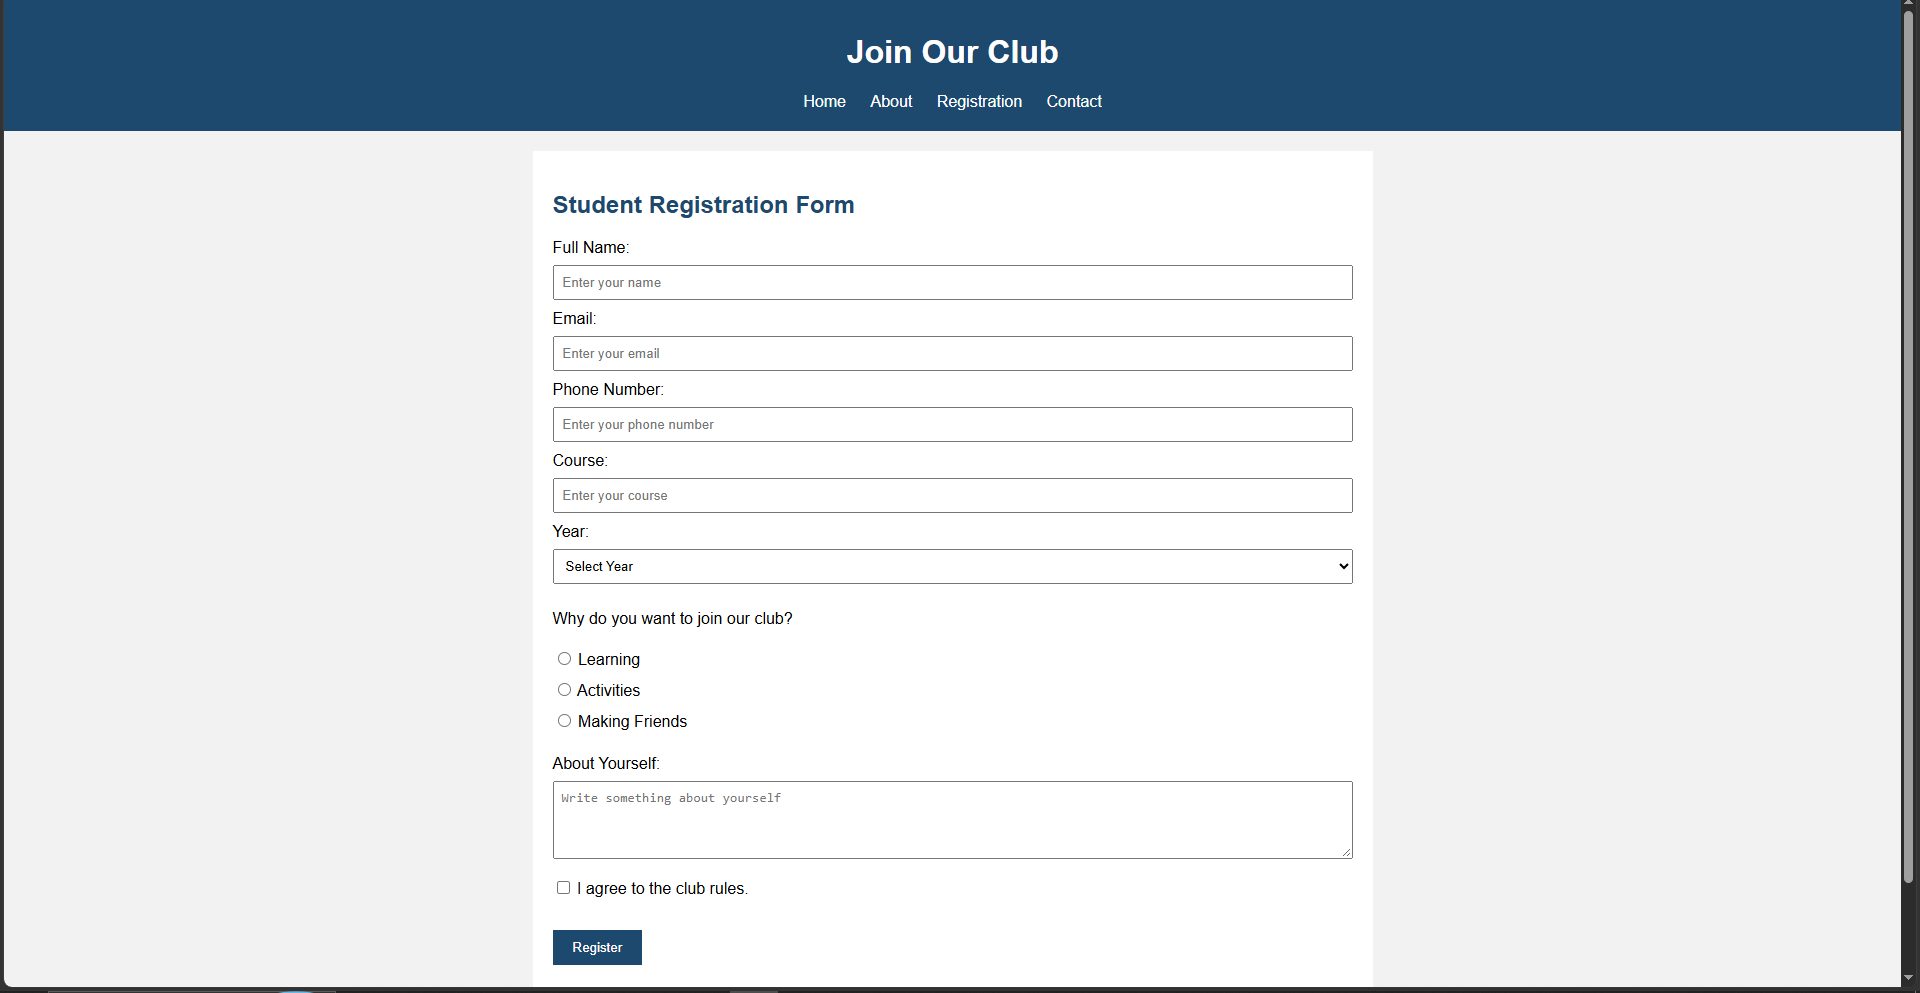
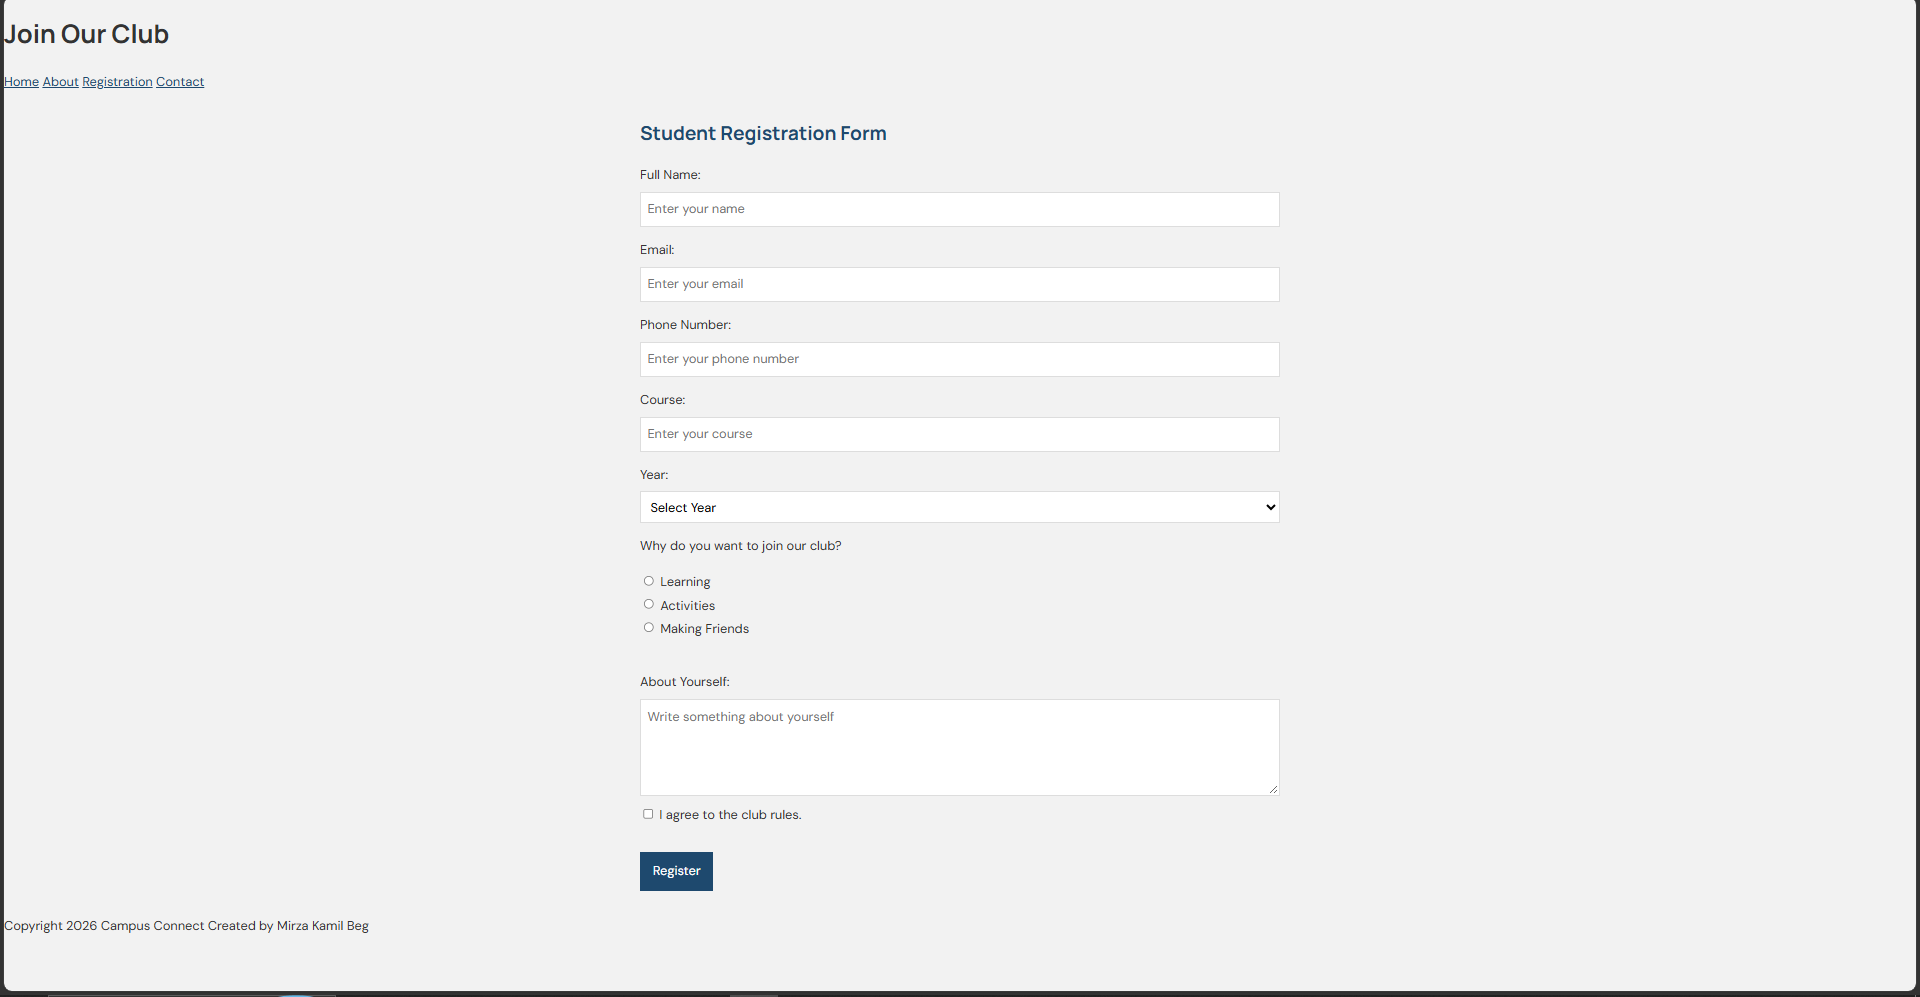
Adding screenshots

diff --git a/registration.html b/registration.html
@@ -2,7 +2,7 @@
 <html>
 <head>
     <title>Registration</title>
-    <link rel="stylesheet" href="styles.css">
+    <link rel="stylesheet" href="css/styles.css">
 </head>
 <body>
 
